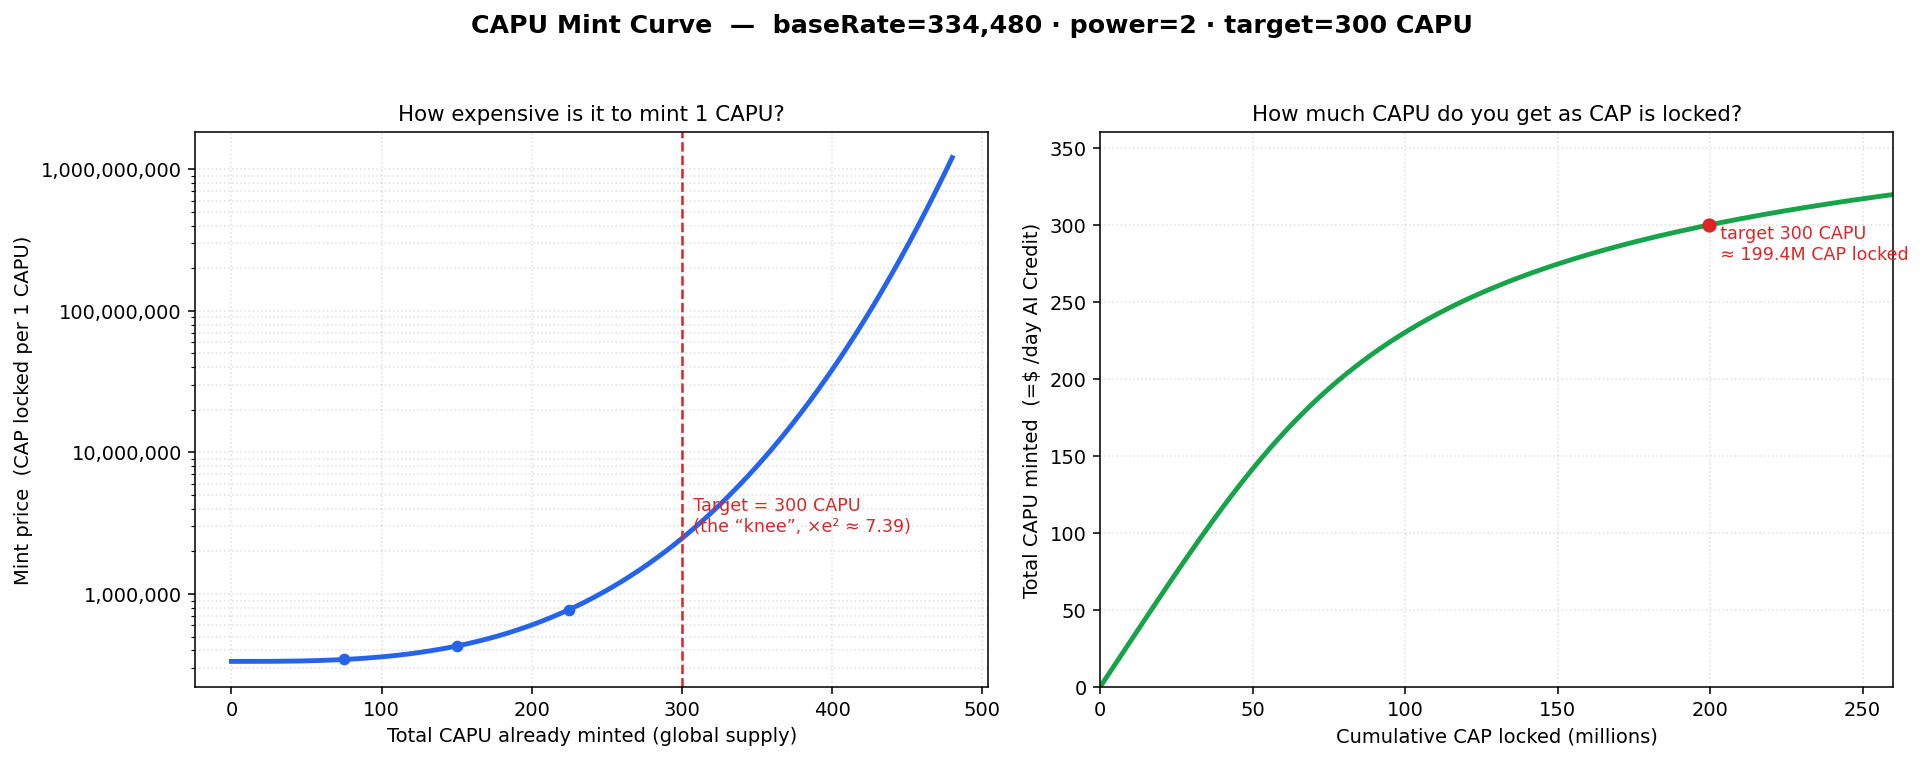
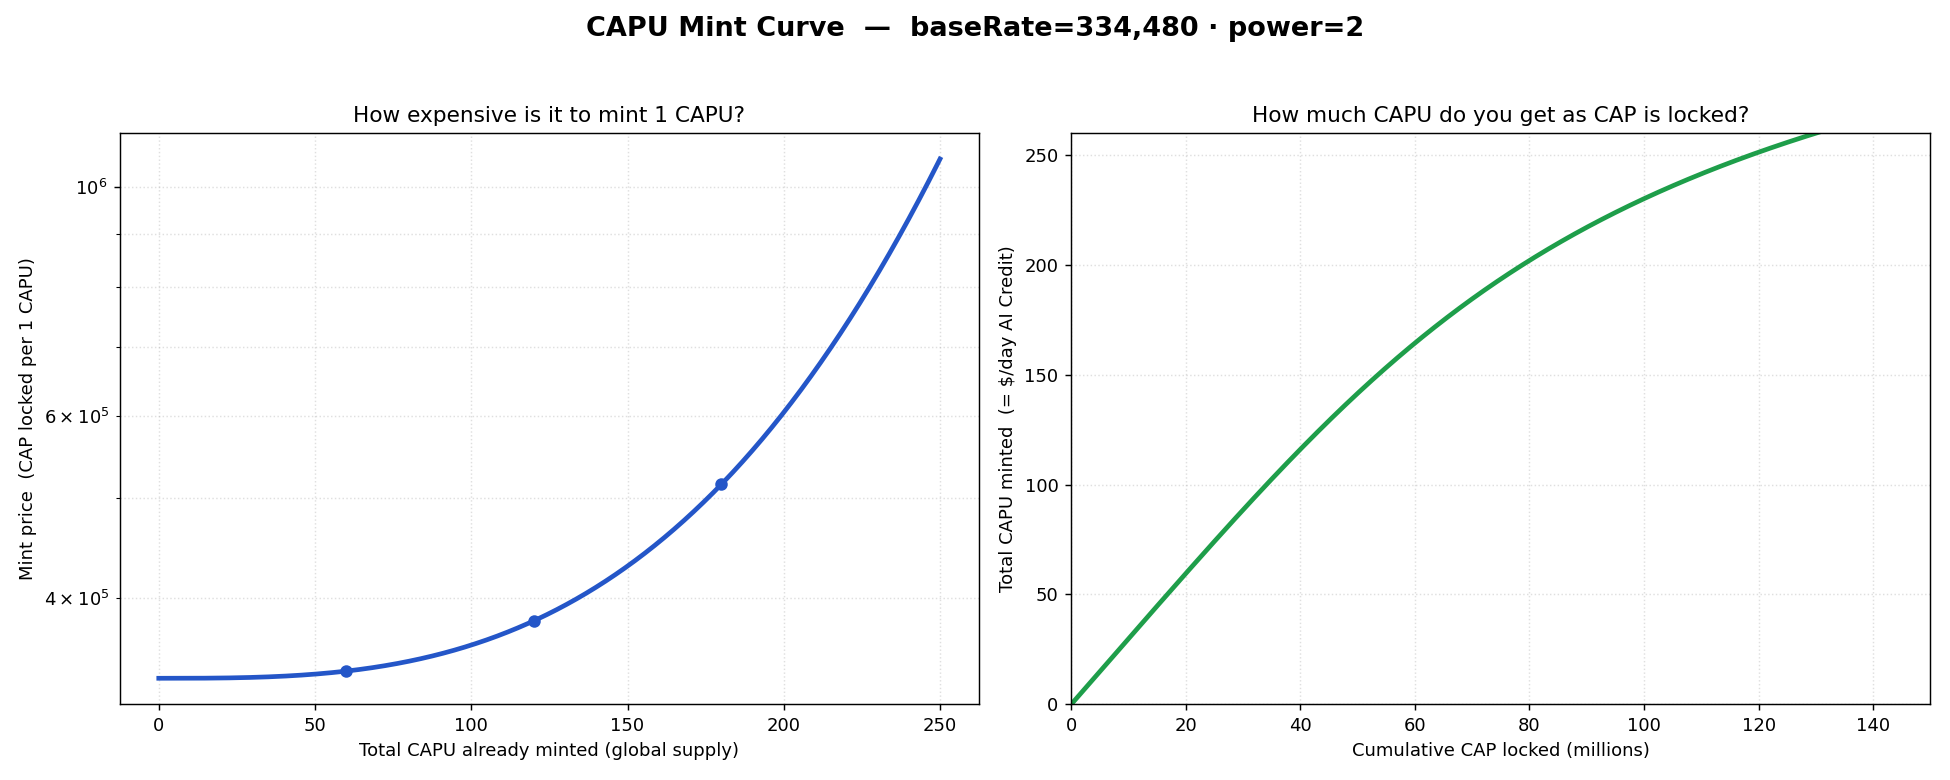
Update CAPU mint curve image and remove target supply details

diff --git a/capminal/product-features/mint-capu.md b/capminal/product-features/mint-capu.md
@@ -151,17 +151,18 @@ This section matters only for **Path B** (minting your own CAPU). If you just bu
 CAPU is minted on a **bonding curve**: the more CAPU already exists, the more CAP it costs to mint the next one. This keeps compute supply healthy and rewards early participants.
 
 ```
-mint price  =  baseRate × e^( power × (current supply / target)³ )
+mint price  =  baseRate × e^( power × (current supply ÷ scale)³ )
 CAPU minted  =  CAP locked ÷ mint price
 ```
 
 You don't need the math. Here's what it means in practice with the **current live settings**:
 
-| Setting    |      Live value | Meaning                                                  |
-| ---------- | --------------: | -------------------------------------------------------- |
-| `baseRate` | **334,480 CAP** | Cost to mint 1 CAPU when supply is at zero               |
-| `power`    |           **2** | How sharply the price curves up                          |
-| `target`   |    **300 CAPU** | The economic "knee" — the design target for total supply |
+| Setting    |      Live value | Meaning                                     |
+| ---------- | --------------: | ------------------------------------------- |
+| `baseRate` | **334,480 CAP** | Cost to mint 1 CAPU when supply is at zero   |
+| `power`    |           **2** | How sharply the price curves up             |
+
+> `scale` is a fixed internal curve constant that sets how quickly the price steepens.
 
 <figure><img src="../../.gitbook/assets/capu-mint-curve.png" alt=""><figcaption></figcaption></figure>
 
@@ -172,21 +173,19 @@ You don't need the math. Here's what it means in practice with the **current liv
 
 #### Reading the curve in numbers
 
-| Supply vs target             | Mint price (CAP per CAPU) |  vs. base | Plain meaning             |
-| ---------------------------- | ------------------------: | --------: | ------------------------- |
-| 0% (empty)                   |                   334,480 |     1.00× | Cheapest possible mint    |
-| 25% (75 CAPU)                |                   345,098 |     1.03× | Still basically flat      |
-| 50% (150 CAPU)               |                   429,481 |     1.28× | Starting to rise          |
-| 75% (225 CAPU)               |                   777,689 |     2.33× | Now \~2.3× more expensive |
-| **100% (300 CAPU — target)** |             **2,471,491** | **7.39×** | The "knee" (= base × e²)  |
-| 125% (375 CAPU)              |                16,627,730 |     \~50× | Very expensive            |
-| 150% (450 CAPU)              |               285,665,575 |    \~854× | Effectively a wall        |
+| Total CAPU minted | Mint price (CAP per CAPU) | vs. base | Plain meaning           |
+| ----------------- | ------------------------: | -------: | ----------------------- |
+| 0 (empty)         |                   334,480 |    1.00× | Cheapest possible mint  |
+| 60 CAPU           |                   339,874 |    1.02× | Still basically flat    |
+| 120 CAPU          |                   380,149 |    1.14× | Starting to rise        |
+| 180 CAPU          |                   515,218 |    1.54× | Now noticeably pricier  |
+| 250 CAPU          |                 1,064,140 |    3.18× | Climbing steeply        |
 
 #### **Takeaways for a minter:**
 
-* Below the target, price moves **slowly** — early minters get the best rate.
-* Around the target (300 CAPU) the price hits its **knee** and accelerates hard.
-* Far past the target the curve becomes a **hard ceiling** — the protocol will refuse mints that push the exponent too high. This caps total compute supply by design.
+* Early on, price moves **slowly** — early minters get the best rate.
+* As supply grows, the price **accelerates** — each new CAPU costs more than the last.
+* Eventually the curve becomes a **hard ceiling** — the protocol will refuse mints that push the exponent too high. This caps total compute supply by design.
 
 > 💡 The exact CAP-to-dollar cost depends on the live CAP price, so these are CAP amounts, not fixed USD prices.
 